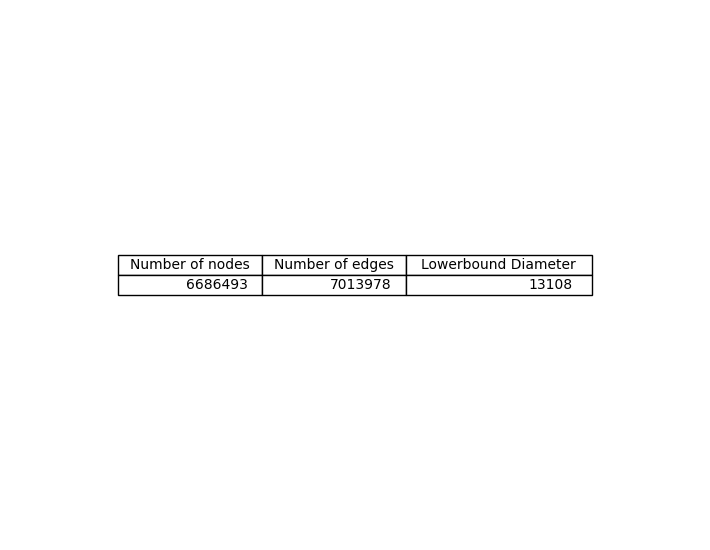
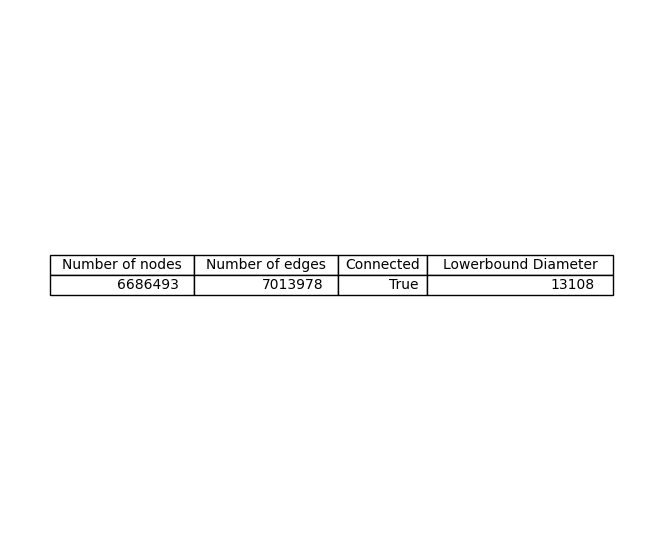
added check if connected

Changed region(s): [[0.0604, 0.4636, 0.9366, 0.5564]]

diff --git a/First Assignment/assignment1.py b/First Assignment/assignment1.py
@@ -58,12 +58,12 @@ def main(dataset:str, output_dir:str, full:bool, verbose:bool):
         logging.basicConfig(level=logging.INFO)
 
     if full:
-        metrics = ["Number of nodes", "Number of edges", "Diameter", "Minimum Degree", "Average degree", "Highest Degree", 
+        metrics = ["Number of nodes", "Number of edges", "Connected", "Diameter", "Minimum Degree", "Average degree", "Highest Degree", 
             "Average Centrality", "Top Centrality", "Transitivity", "Average Number of Triangles", "Highest Number of Triangles", 
             "Density", "K-Core", "K-Core Minimum Degree", "Assortativity", "Average Betweenness", "Top Betweenness", 
             "Average Closeness", "Top Closeness"]
     else:
-        metrics = ["Number of nodes", "Number of edges", "Lowerbound Diameter", "Minimum Degree", "Average degree", "Highest Degree", 
+        metrics = ["Number of nodes", "Number of edges", "Connected", "Lowerbound Diameter", "Minimum Degree", "Average degree", "Highest Degree", 
             "Average Centrality", "Top Centrality", "Transitivity", "Average Number of Triangles", "Highest Number of Triangles", 
             "Density", "K-Core", "K-Core Minimum Degree", "Assortativity"]
         
@@ -82,6 +82,9 @@ def main(dataset:str, output_dir:str, full:bool, verbose:bool):
     values.append(G.number_of_nodes())
     logging.info("Calculating edges...")
     values.append(G.number_of_edges())
+    logging.info("Checking if connected...")
+    values.append(nx.is_connected(G))
+
     if full:
         logging.info("Calculating diameter...")
         values.append(nx.diameter(G))
@@ -169,13 +172,13 @@ def main(dataset:str, output_dir:str, full:bool, verbose:bool):
     fig.savefig(output_dir+"degree-distribution.png")
 
     #metrics table
-    save_metrics(values[0:3], metrics[0:3], output_dir, "metrics-1.png")
-    save_metrics(values[3:6], metrics[3:6], output_dir, "metrics-2.png")
-    save_metrics(values[6:9], metrics[6:9], output_dir, "metrics-3.png")
-    save_metrics(values[9:12], metrics[9:12], output_dir, "metrics-4.png")
-    save_metrics(values[12:15], metrics[12:15], output_dir, "metrics-5.png")
+    save_metrics(values[0:4], metrics[0:4], output_dir, "metrics-1.png")
+    save_metrics(values[4:7], metrics[4:7], output_dir, "metrics-2.png")
+    save_metrics(values[7:10], metrics[7:10], output_dir, "metrics-3.png")
+    save_metrics(values[10:13], metrics[10:13], output_dir, "metrics-4.png")
+    save_metrics(values[13:16], metrics[13:16], output_dir, "metrics-5.png")
     if full:
-        save_metrics(values[15:], metrics[15:], output_dir, "metrics-6.png")
+        save_metrics(values[16:], metrics[16:], output_dir, "metrics-6.png")
 
     if full:
         d = {'Nodes-Degree': [x[0] for x in top_degree], 'Degree': [y[1] for y in top_degree], 
